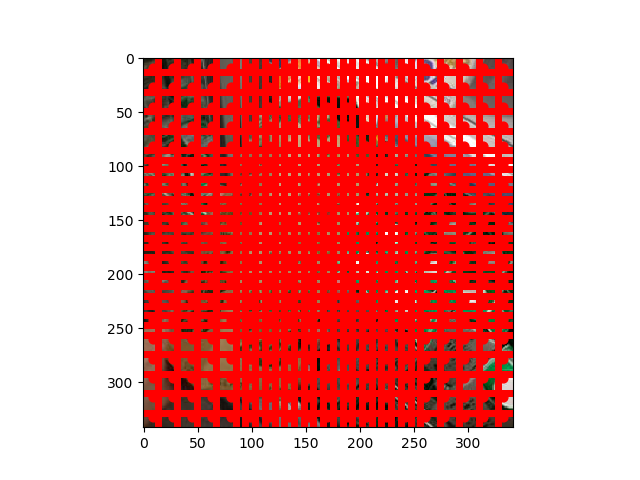
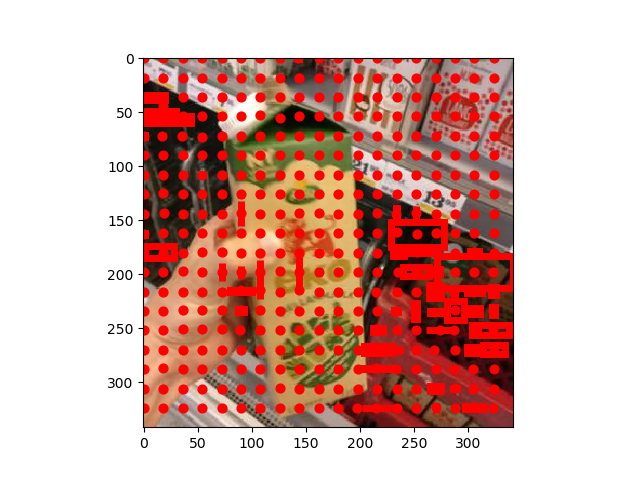
end to end pipeline done

diff --git a/FinalPredictionsProcessing.py b/FinalPredictionsProcessing.py
@@ -1,0 +1,151 @@
+# -*- coding: utf-8 -*-
+"""
+Created on Tue Apr 23 16:52:16 2019
+
+@author: nithish k
+"""
+
+
+
+import glob
+import os
+
+import imageManipulations
+import plotGridAndBound
+import XMLParser
+import assigngrid
+import normalization
+import denormalization
+import generateTargetVariable
+import decodePredictionArray
+
+import matplotlib.pyplot as plt
+import matplotlib.patches as patches
+import numpy as np
+import pickle
+import nonMaxSupression
+
+###image dicts   
+"""
+Note: need to change class mapping dict as required as global variable 
+"""
+classMappingDict = {'milk':0,'tomato': 1, 'apple':2 , 'eggs':3 ,'onion': 4,
+                    'salt':5, 'yogurt': 6, 'sugar': 7, 'butter': 8, 'orange':9}
+
+###has all of the Image informations as list of dicts
+
+
+
+###plot at image level
+
+
+def visualisePredictions(trueImgDict,trueObjList,imgPath,eachPredictionArray,
+                         overlapThresh=0.5,probThres=0):
+    """
+    Should shange the thresholds if required
+    change grid size as well if needed
+    """
+    
+    global classMappingDict
+    
+    pred_objectList = decodePredictionArray.decodePredArr(trueImgDict,
+                                                          eachPredictionArray,
+                                                          classMappingDict)
+    
+    
+    postNonMaxPredObjList = nonMaxSupression.non_max_supression_wrapper(pred_objectList,classMappingDict,
+                                                                     overlapThresh,probThres)
+    
+    gridImg = plotGridAndBound.plotGridOnImg(imgPath,19,19,postNonMaxPredObjList,
+                                             grid =False, dispClassLabel = False)
+
+    
+    plt.figure()
+    
+    
+    
+
+
+def visualise_preds_for_set_of_images(imgfilePattern,
+                                      ImgDictsPath_True_Path,
+                                      ObjLists_True_Path,
+                                      predictionArrayPath,
+                                      overlapThresh=0.5,probThres=0,
+                                      maxImagesToPlot = 10):
+    
+    """
+    requires :
+    img dict pkl file
+    objectList pkl file
+    predictions pkl file
+    imagepaths list
+    """
+    global classMappingDict
+    imgFilePaths_list = sorted(glob.glob(imgfilePattern))
+
+
+    
+    ListOf_imgDicts_true = pickle.load(open(ImgDictsPath_True_Path, 'rb'))
+  
+
+    ListOf_ObjLists_true = pickle.load(open(ObjLists_True_Path, 'rb'))
+
+    ListOf_PredictionY = pickle.load(open(predictionArrayPath, 'rb'))
+
+
+
+
+    for index in range(maxImagesToPlot):
+        
+        visualisePredictions(ListOf_imgDicts_true[index],
+                             ListOf_ObjLists_true[index],imgFilePaths_list[index],
+                             ListOf_PredictionY[index],
+                             overlapThresh=0.5,probThres=0)
+        
+
+
+
+
+
+
+#maxE = -float("Inf")
+#for index,dic in enumerate(pred_objectList):
+# 
+#    if dic['ObjectnessProb'] >= maxE:
+#        maxE = dic['ObjectnessProb']
+#        maxIndex = index        
+#print(maxIndex)
+#
+#pred_objectList[maxIndex]
+        
+        
+if __name__ == '__main__':
+    
+    
+    """
+    Pretraining informations
+    """
+    ##pickle files
+    ImgDictsPath_True_Path = "C:/Users/ntihish/Documents/IUB/Deep Learning/Project/Train images/Reshaped/annotations/resizedImageDictsAllFiles.pkl"
+    ObjLists_True_Path = "C:/Users/ntihish/Documents/IUB/Deep Learning/Project/Train images/Reshaped/annotations/resizedObjectListsAllFiles.pkl"
+    ###gets all the image as list
+    imagefilePattern = "C:/Users/ntihish/Documents/IUB/Deep Learning/Project/Train images/images/Arla*"
+    
+    
+    """
+    Prediction informations
+    """
+    #### prediction array pickle path
+    predictionArrayPath = "C:/Users/ntihish/Documents/IUB/Deep Learning/Project/Train images/Reshaped/annotations/PredictionArray.pkl"
+
+    visualise_preds_for_set_of_images(imagefilePattern,
+                                      ImgDictsPath_True_Path,
+                                      ObjLists_True_Path,
+                                      predictionArrayPath,
+                                      overlapThresh=0.5,probThres=0,
+                                      maxImagesToPlot = 3)
+    
+    
+    
+    
+    

diff --git a/resizing1stImplementation.py b/resizing1stImplementation.py
@@ -64,6 +64,7 @@ for inpfile,inpXmlFile in zip(sorted(glob.glob(inpfilePattern)),sorted(glob.glob
 import pickle
 with open(outputAnnotations+'/resizedImageDictsAllFiles.pkl', 'wb') as f:
    pickle.dump(AllImageList, f)
+
 with open(outputAnnotations+'/resizedObjectListsAllFiles.pkl', 'wb') as f:
    pickle.dump(AllObjectsList, f)
 
@@ -79,26 +80,6 @@ with open(outputAnnotations+'/resizedAllTargetArray.pkl', 'wb') as f:
    
 
    
-###image dicts   
-classMappingDict = {'Milk':0}
-ImgDictsPath = "C:/Users/ntihish/Documents/IUB/Deep Learning/Project/Train images/Reshaped/annotations/resizedImageDictsAllFiles.pkl"
-with open(ImgDictsPath, 'rb') as f:
-  imageDicts = pickle.load(f)
-    
-imgFile = "C:/Users/ntihish/Documents/IUB/Deep Learning/Project/Train images/Reshaped/images/Arla-Ecological-Medium-Fat-Milk_002.jpg"
 
-predictionPath = "C:/Users/ntihish/Documents/IUB/Deep Learning/Project/Train images/Reshaped/annotations/PredictionArray.pkl"
 
-with open(predictionPath, 'rb') as f:
-  PredictionY = pickle.load(f) 
-
-objectList = decodePredictionArray.decodePredArr(imageDicts[1],PredictionY[1],classMappingDict)
-
-boxes, probs, labels = nonMaxSupression.input_to_nms(objectList)
-boxes,labels = nonMaxSupression.non_max_suppression(boxes, probs, labels, overlapThresh=0.5, probThres=0.22,checkLabels=True)
-newObjList  = nonMaxSupression.convert_op_nms(boxes,labels,classMappingDict)
-
-gridImg = plotGridAndBound.plotGridOnImg(imgFile,19,19,newObjList,grid =False)
-gridImg.savefig("griddedImage")
                   
-

diff --git a/plotGridAndBound.py b/plotGridAndBound.py
@@ -11,7 +11,7 @@ import matplotlib.pyplot as plt
 import matplotlib.patches as patches
 import numpy as np
 
-def addBoundingBox(plt,objectList):
+def addBoundingBox(plt,objectList,dispClassLabel =True):
     
     """
     args: plt object , objectList
@@ -31,14 +31,16 @@ def addBoundingBox(plt,objectList):
                                  linewidth=5,edgecolor='r',facecolor='none')
         
         plt.scatter(x=[centerX], y=[centerY], c='r', s=40)
-#        plt.text(centerX, centerY, eachObj['name'], fontsize = 30 ,color = 'red')
+        if dispClassLabel == True:
+            plt.text(centerX, centerY, eachObj['name'], fontsize = 30 ,color = 'red')
+        
         ax.add_patch(rect)
     
     return plt
     
     
     
-def plotGridOnImg(filepath,numXGrids,numYGrids,objectList,grid = True):
+def plotGridOnImg(filepath,numXGrids,numYGrids,objectList,grid = True,dispClassLabel=  True):
     
     """
     
@@ -64,7 +66,7 @@ def plotGridOnImg(filepath,numXGrids,numYGrids,objectList,grid = True):
             plt.axhline(y=yCordLine,linewidth  = 2)
     
     
-    addBoundingBox(plt,objectList)
+    addBoundingBox(plt,objectList,dispClassLabel)
 #    
 
     ax = plt.gca()

diff --git a/nonMaxSupression.py b/nonMaxSupression.py
@@ -149,10 +149,11 @@ def non_max_suppression(boxes, probs, labels, overlapThresh=0.5, probThres=0.1,c
     # return only the bounding boxes that were picked
     return boxes[pick].astype("int"), labels[pick]
 
-def non_max_supression_wrapper(object_dict,classMappingDict):
+def non_max_supression_wrapper(object_dict,classMappingDict,overlapThresh=0.5,probThres=0.1):
     boxes,probs,labels = input_to_nms(object_dict)
-    boxes,labels = non_max_suppression(boxes, probs, labels, overlapThresh=0.5, probThres=0.1,checkLabels=True)
-    output = convert_output_of_nms(boxes,labels,classMappingDict)
+    boxes,labels = non_max_suppression(boxes, probs, labels, 
+                                       overlapThresh=overlapThresh, probThres=probThres,checkLabels=True)
+    output = convert_op_nms(boxes,labels,classMappingDict)
     return output
     
 

diff --git a/loss.py b/loss.py
@@ -8,19 +8,21 @@ from sklearn.metrics import mean_squared_error
 import numpy as np
 
 def get_details(row, col, tensor):
-    class_prob = tensor[row][col][0]
+    objectnessProb = tensor[row][col][0]
     x = tensor[row][col][1]
     y = tensor[row][col][2]
     w = tensor[row][col][3]
     h = tensor[row][col][4]
-    return class_prob, x, y, w, h
+    return objectnessProb, x, y, w, h
     
 def yolo_loss(predicted, ground_truth):
     rows = predicted.shape[0]
     cols = predicted.shape[1]
     
     localization_loss = 0
+    
     lambda_cordinates = 0
+    
     dimension_loss = 0
     for row in range(rows):
         for col in range(cols):

diff --git a/decodePredictionArray.py b/decodePredictionArray.py
@@ -15,7 +15,8 @@ import numpy as np
 import generateTargetVariable
 
 
-classMappingDict = {'dog': 0, 'cat' : 1}
+classMappingDict = {'milk':0,'tomato': 1, 'apple':2 , 'eggs':3 ,'onion': 4,
+                    'salt':5, 'yogurt': 6, 'sugar': 7, 'butter': 8, 'orange':9}
 
 def denormPredForEachGrid(image_dict,arrayOf4Elems,grid_row_no,
                           grid_col_no,total_grid_rows,total_grid_cols):

diff --git a/importAllModules.py b/importAllModules.py
@@ -1,0 +1,7 @@
+# -*- coding: utf-8 -*-
+"""
+Created on Wed Apr 24 20:11:13 2019
+
+@author: nithish k
+"""
+
